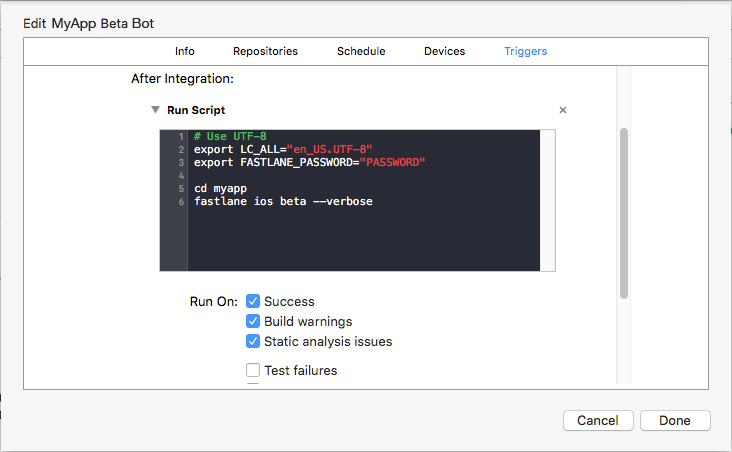
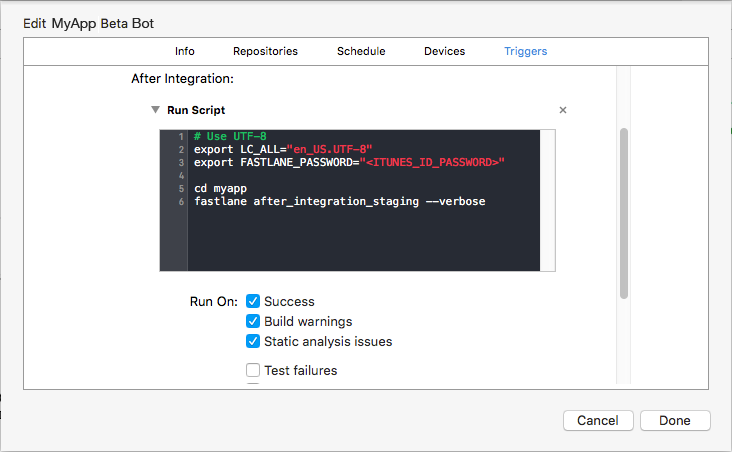
fixed images and something else

diff --git a/css/main.scss b/css/main.scss
@@ -4,7 +4,7 @@
 @charset "utf-8";
 
 
-$font-family: 'Lato';
+$font-family: 'Helvetica Neue';
 $font-weight-light: 300;
 $font-weight-normal: 400;
 $font-weight-bold: 700;
@@ -24,7 +24,7 @@ $line-height:      1.7;
 $background-color: #fdfdfd;
 $brand-color:      #2a7ae2;
 
-$grey-color:       #828282;
+$grey-color:       #777;
 $grey-color-light: lighten($grey-color, 40%);
 $grey-color-dark:  darken($grey-color, 25%);
 

diff --git a/_sass/_base.scss b/_sass/_base.scss
@@ -8,7 +8,9 @@ dl, dd, ol, ul, figure {
     padding: 0;
 }
 
-
+em {
+    font-style: italic;
+}
 
 /**
  * Basic styling
@@ -112,8 +114,6 @@ blockquote {
     border-left: 4px solid $grey-color-light;
     padding-left: $spacing-unit / 2;
     font-size: 18px;
-    letter-spacing: -1px;
-    font-style: italic;
 
     > :last-child {
         margin-bottom: 0;

diff --git a/_sass/_fonts.scss b/_sass/_fonts.scss
@@ -1,1 +1,2 @@
 @import url(http://fonts.googleapis.com/css?family=Lato:300,400,700,900,300italic,400italic);
+@import url(http://fonts.googleapis.com/css?family=Helvetica%20Neue:300,400,700,900,300italic,400italic);

diff --git a/_posts/2016-03-07-ci-with-xcode-server-and-fastlane.md b/_posts/2016-03-07-ci-with-xcode-server-and-fastlane.md
@@ -1,13 +1,13 @@
 ---
 layout: post
-title:  "CI & automatic deployment to iTunes with Xcode Server"
-date:   2016-02-19 17:22:12
+title:  "CI & automatic deployment to iTunes Connect with Xcode Server"
+date:   2016-03-07 10:00:00
 author: Miguel Revetria
-categories: Server,CI
+categories: Server,CI,Fastlane,Server
 author_id: remer
 ---
 
-In this post I'm going to write about my experience and the problems I found when setting up Xcode Server for CI and automatic deployment to iTunes at Xmartlabs. I'm going to let you know how I could solve some problems hoping it may help somebody in the same situation.
+In this post I'm going to write about my experience and the problems I found when setting up Xcode Server for CI and automatic deployment to iTunes Connect at Xmartlabs. I'm going to let you know how I could solve some problems hoping it may help somebody in the same situation.
 
 There are a lot of blogs that explain how to set up Xcode Server, create an integration bot and explore the results on Xcode (issue tracking, tests code coverage, etc) but when you try to make something more sophisticated, you may get some errors and won't be able to find many resources for a solution.
 
@@ -34,6 +34,7 @@ To prevent permissions issues we will install all the gems only for the builder 
 Before start, add ruby bin folder to builder's path - depending on the ruby's version - add `export PATH="$PATH:/var/_xcsbuildd/.gem/ruby/2.0.0/bin"` to `~/.bashrc` and `~/.bash_login`. Now let's install these gems:
 
 {% highlight shell %}
+
 $ sudo su - _xcsbuildd
 
 $ gem install --user-install cocoapods
@@ -75,7 +76,7 @@ We can create the bot by following these simple steps:
 
 ### Deployer bot
 
-Second bot we usually set up is on charge of building and uploading the app IPA to iTunes Connect. It will also be responsible for creating and pushing a new git tag using the most recently code base. We're going to use Fastlane to achieve this.
+Second bot is in charge of building and uploading the app IPA to iTunes Connect. It will also be responsible for creating and pushing a new git tag using the most recently code base. We're going to use Fastlane to achieve this.
 
 Normally we configure it to run on demand or weekly scheduled since we usually need to release beta versions once a week.
 
@@ -87,11 +88,11 @@ We have to ensure that distribution/development certificates and their associate
 
 ![Keychain](/images/remer-xcode-server/keychain.png)
 
-To build the IPA, we have to put required provisioning profiles in the folder `/Library/Developer/XcodeServer/ProvisioningProfiles` since bots run on its own user `_xcsbuildd` and search provisioning profiles in the folder .
+To build the IPA, we have to put required provisioning profiles in the folder `/Library/Developer/XcodeServer/ProvisioningProfiles` since bots run on its own user `_xcsbuildd` and search provisioning profiles in this folder.
 
 ### Before integration script
 
-XCode integration allows us to provide a before and a after integration script.
+Xcode integration allows us to provide a before and a after integration script.
 
 Before our Deployer Bot start integrating we have to preform some tasks which will be run from a triggered command:
 
@@ -100,7 +101,7 @@ Before our Deployer Bot start integrating we have to preform some tasks which wi
 * Install the correct versions of the libraries used by the project.
 
 
-Fastlane tools will look for useful information at `Appfile` file to deploy the lines such as **Apple ID** and **application Bundle Identifier**. Code snippet below illustrates how `Appfile` could looks like:
+Fastlane tools will look for useful information at `Appfile` file to deploy the lanes such as **Apple ID** and **application Bundle Identifier**. Code snippet below illustrates how `Appfile` could looks like:
 
 {% highlight ruby %}
 
@@ -131,7 +132,7 @@ lane :before_integration do
   build_number = number_of_commits
 
   # Set number of commits as the build number in the project's plist file before the bot actually start building the project.
-  # This way, the generated archive will have the correct build number.
+  # This way, the generated archive will have an auto-incremented build number.
   set_info_plist_value(
     path: './MyApp-Info.plist',
     key: 'CFBundleVersion',
@@ -152,8 +153,10 @@ end
 If we run `fastlane before_integration`, it will connect to iOS Member Center and download the profiles for the app indicated by its bundle id in the `Appfile`. Additionally we have to pass the password to it, to make this work with Xcode bots we pass it through the environment variable `FASTLANE_PASSWORD`:
 
 {% highlight shell %}
-$ export FASTLANE_PASSWORD="<APPLE_DEV_PORTAL_PASSWORD>"
+
+$ export FASTLANE_PASSWORD="<APPLE_ID_PASSWORD>"
 $ fastlane before_integration
+
 {% endhighlight %}
 
 > Initially we attempted to use Keychain to pass the passwords to Fastlane `sigh` but it doesn't work, for further info about this see [here](#attempting_to_developer_password_to_fastlane_tools).
@@ -166,11 +169,12 @@ We will modify the deployer bot by adding a before trigger command on the *Trigg
 
 ### After integration script
 
-After the bot finishes integrating the project we will be able to access the created archive file, export it as an IPA file and upload it to iTunes. We're going to create an additional lane which be in charge of uploading the IPA to iTunes and also creating a git tag.
+After the bot finishes integrating the project we will be able to access the created archive file, export it as an IPA file and upload it to iTunes Connect. We're going to create an additional lane which be in charge of uploading the IPA to iTunes Connect and also creating a git tag.
 
 Let's start simple without taking care of the upload to iTunes Connect for now:
 
 {% highlight ruby %}
+
 lane :after_integration do
   plistFile = './MyApp-Info.plist'
 
@@ -203,7 +207,7 @@ end
 
 {% endhighlight %}
 
-Now we're going to export the IPA from the archive created by the bot during the integration by running the command `xcrun xcodebuild` to the `build` lane. Additionally, we're going to upload the IPA to iTunes Connect using Fastlane [deliver](https://github.com/fastlane/deliver) tool. See details below:
+Now we're going to export the IPA from the archive file created by the bot during the integration by running the command `xcrun xcodebuild` in the `after_integration` lane. Additionally, we're going to upload the IPA to iTunes Connect using Fastlane [deliver](https://github.com/fastlane/deliver) tool. See details below:
 
 {% highlight ruby %}
 
@@ -225,7 +229,7 @@ lane :after_integration do
     ipa: ipa_path
   )
 
-  # Keep committing and tagging actions after export to avoid perform them
+  # Keep committing and tagging actions after export & upload to prevent confirm the changes to the repo if something went wrong
   add_git_tag(
     tag: "beta/v#{version_number}_#{build_number}"
   )
@@ -240,7 +244,7 @@ end
 
 #### Supporting multiples targets
 
-Typically our projects have a `production` and `staging` application targets. `Fastfile` file will require different lanes for each target that we want to upload to iTunes. We need to  modify the `Appfile` file to set up the correct app identifier depending on each lane:
+Typically our projects have a `production` and `staging` application targets. `Fastfile` file will require different lanes for each target that we want to upload to iTunes Connect. We need to  modify the `Appfile` file to set up the correct app identifier depending on each lane:
 
 {% highlight ruby %}
 
@@ -275,6 +279,7 @@ itunes_connect_id "<itunes_connect_email@server.com>"
 Finally, after some refactor, the `Fastfile` file may looks like as shown below:
 
 {% highlight ruby %}
+
 require './libs/utils.rb'
 
 fastlane_version '1.63.1'
@@ -283,7 +288,7 @@ default_platform :ios
 
 platform :ios do  
   before_all do
-    ENV["SLACK_URL"] = "https://hooks.slack.com/services/#####/#####/#########"
+    ENV["SLACK_URL"] ||= "https://hooks.slack.com/services/#####/#####/#########"
   end
 
   after_all do |lane|
@@ -305,12 +310,8 @@ platform :ios do
 
     plist_file = ENV['XL_TARGET_PLIST_FILE']
 
-    build_number = number_of_commits
-    set_info_plist_value(
-    path: plist_file,
-    key: 'CFBundleVersion',
-    value: "#{build_number}"
-  )
+    # This is a custom action that could be find in the libs/utils.rb
+    increase_build_number(plist_file)
 
     cocoapods
     sigh(output_path: '/Library/Developer/XcodeServer/ProvisioningProfiles', skip_install: true)
@@ -324,7 +325,7 @@ platform :ios do
 
   desc 'Required tasks before build the production app.'
   lane :before_integration_production do
-    ENV['XL_TARGET_PLIST_FILE'] = './MyAppStaging-Info.plist'
+    ENV['XL_TARGET_PLIST_FILE'] = './MyApp-Info.plist'
     before_integration
   end
 
@@ -338,7 +339,10 @@ platform :ios do
     tag_link = ENV['XL_TAG_LINK']
     target = ENV['XL_TARGET']
 
-    build_number = increase_build_number(plist_file)
+    build_number = get_info_plist_value(
+      path: plist_file,
+      key: 'CFBundleVersion',
+    )
     version_number = get_info_plist_value(
       path: plist_file,
       key: 'CFBundleShortVersionString',
@@ -394,9 +398,10 @@ platform :ios do
   lane :after_integration_staging do
     ENV['XL_BRANCH'] = current_branch
     ENV['XL_DELIVER_FLAG'] ||= '1'
+    ENV['XL_TAG_BASE_PATH'] = 'beta'
     ENV['XL_TARGET_PLIST_FILE'] = './MyApp Staging-Info.plist'
     ENV['XL_TARGET'] = 'MyApp Staging'
-    ENV['XL_TAG_LINK'] = 'https://bitbucket.org/xmartlabs/MyApp/src/?at='
+    ENV['XL_TAG_LINK'] = 'https://github.com/xmartlabs/MyApp/releases/tag/'
 
     after_integration
   end
@@ -407,7 +412,7 @@ platform :ios do
     ENV['XL_DELIVER_FLAG'] ||= '1'
     ENV['XL_TARGET_PLIST_FILE'] = './MyApp-Info.plist'
     ENV['XL_TARGET'] = 'MyApp'
-    ENV['XL_TAG_LINK'] = 'https://bitbucket.org/xmartlabs/MyApp/src/?at='
+    ENV['XL_TAG_LINK'] = 'https://github.com/company/MyApp/releases/tag/'
 
     after_integration
   end
@@ -417,12 +422,13 @@ end
 
 Notes about previous `Fastfile` file:
 
-* Defines two before_integration lanes for both production and staging environments in order to setup correct apps identifier using the `Appfile`.
-* Build, git and deploy actions are encapsulated in the `after_integration` lane. This allow as to have production and staging lanes that, basically, will setup some parameters and invoke the internal `after_integration` lane.
-* `ensure_git_status_clean` will check if bot's working folder has changes and will fail in such case. This will ensure that the bot’s working copy is exactly the same to the remote repository files. As we are changing local files on our `deploy` lane, if something went wrong we'll want to reset all of them. So we added the action `reset_git_repo` on `error` block.
-* The command `xcrun xcodebuild -exportArchive` requires a configuration file specified with the option `-exportOptionsPlist`. We created ExportOptions.plist within `fastlane` folder and its content its similar to:
+* Defines two `before_integration` lanes for both production and staging environments in order to setup correct apps identifier using the `Appfile`.
+* Build, git and deploy actions are encapsulated in the `after_integration` lane. This allow us to have production and staging lanes that, basically, will setup some parameters and invoke the internal `after_integration` lane.
+* `ensure_git_status_clean` will check if bot's working folder has changes and will fail in such case. This will ensure that the bot’s working copy is exactly the same to the remote repository files. As we are changing local files on our `after_integration` lane, if something went wrong we'll want to reset all of them. So we added the action `reset_git_repo` in the `error` block.
+* The command `xcrun xcodebuild -exportArchive` requires a configuration file specified with the option `-exportOptionsPlist`. We created the file `ExportOptions.plist` within `fastlane` folder and its content its similar to:
 
 {% highlight xml %}
+
 <?xml version="1.0" encoding="UTF-8"?>
 <!DOCTYPE plist PUBLIC "-//Apple//DTD PLIST 1.0//EN" "http://www.apple.com/DTDs/PropertyList-1.0.dtd">
 <plist version="1.0">
@@ -437,11 +443,14 @@ Notes about previous `Fastfile` file:
         <true/>
 </dict>
 </plist>
+
 {% endhighlight %}
 
 As the last step, add a new after integration trigger that executes our `after_integration_staging` lane:
 
 ![After trigger deploy](/images/remer-xcode-server/after-trigger-deploy.png)
+
+You can find a template for the Fastlane files shown before in this github repo [Fastlane CI files](https://github.com/xmartlabs/Fastlane-CI-Files)
 
 ## Troubleshooting
 
@@ -454,11 +463,13 @@ During our process of setting up Xcode Server to work properly, we faced many dr
 We tried by unlocking it before running `sigh` as shown below without luck:
 
 {% highlight shell %}
+
 # Try to unlock the keychain to be accessed by fastlane actions
 $ security -v unlock-keychain -p `cat /Library/Developer/XcodeServer/SharedSecrets/PortalKeychainSharedSecret` /Library/Developer/XcodeServer/Keychains/Portal.keychain
 
 # Will download profiles using sigh
 $ fastlane before_integration_staging
+
 {% endhighlight %}
 
 On the output log appears next messages:
@@ -480,12 +491,14 @@ We simply couldn't access the keychain when running Fastlane. We opted to just s
 We ended up deleting CocoaPods and installing it as a described above:
 
 {% highlight shell %}
+
 $ sudo rm -fr /var/_xcsbuildd/.cocoapods
 
 $ sudo su - _xcsbuildd
 $ gem install --user-install cocoapods
 $ pod setup
 $ ln -s `which pod` /Applications/Xcode.app/Contents/Developer/usr/bin/pod
+
 {% endhighlight %}
 
 #### Fastlane - Sigh & Gym cannot access to keychain
@@ -507,7 +520,9 @@ Ensure that:
 After updating Xcode to version 7.2.1 we were able to select it on Server app, then Xcode service was disabled. When we tried to select the correct Xcode app there a dialog saying *"You must agree to the terms of the xcode software license agreement"* was shown. We found the solution on an Apple Forum thread [Can not choose Xcode in Server App - "You must agree to the terms..."](https://forums.developer.apple.com/thread/34683), running next command will allow you to select Xcode on Server app:
 
 {% highlight shell %}
+
 $ sudo /Applications/Xcode.app/Contents/Developer/usr/bin/xcscontrol --initialize
+
 {% endhighlight %}
 
 #### IPA not available
@@ -522,15 +537,15 @@ The env variable XCS_ARCHIVE is defined only when the bot is set to perform the 
 
 To commit changelog changes and build number bump we need to have access to the repo from `_xcsbuildd`'s shell. If you prefer use SSH to access git server you will need to add a valid key in the builder user `.ssh` folder. Note that this key should not have a passphrase set. Otherwise, the trigger will ask you to enter the shh key password stopping its process until you enter it.
 
-1. Log in as `_xcsbuildd`:
+* Log in as `_xcsbuildd`:
    `$ sudo su - _xcsbuildd`
-2. Copy a valid ssh key to `~/.ssh`.
-3. Modify `~/.bash_login` in order to automatically add your custom key to ssh agent:
+* Copy a valid ssh key to `~/.ssh`.
+* Modify `~/.bash_login` in order to automatically add your custom key to ssh agent:
    {% highlight shell %}
    $ echo 'eval "$(ssh-agent -s)"' >> ~/.bash_login
    $ echo 'ssh-add ~/.ssh/id_rsa_github' >> ~/.bash_login
    {% endhighlight %}
-4. Determine which key should be used to access git repo by changing `~/.ssh/config` file, for example add next lines:
+* Determine which key should be used to access git repo by changing `~/.ssh/config` file, for example add next lines:
    {% highlight text %}
     Host github.com
        HostName github.com
@@ -541,8 +556,10 @@ This will also be helpful to fetch git submodules.
 
 #### Invalid Signature. A sealed resource is missing or invalid.
 
-If the upload to iTunes fails with an error similar to "Invalid Signature. A sealed resource is missing or invalid.", it may happen because the export archive command (xcodebuild command) is not receiving the option `-exportOptionsPlist`. Make sure that you have set up it and the path to the file is OK. The full error message is:
+If the upload to iTunes Connect fails with an error similar to "Invalid Signature. A sealed resource is missing or invalid.", it may happen because the export archive command (xcodebuild command) is not receiving the option `-exportOptionsPlist`. Make sure that you have set up it and the path to the file is OK. The full error message is:
 
 {% highlight text %}
+
 parameter ErrorMessage = ERROR ITMS-90035: "Invalid Signature. A sealed resource is missing or invalid. Make sure you have signed your application with a distribution certificate, not an ad hoc certificate or a development certificate. Verify that the code signing settings in Xcode are correct at the target level (which override any values at the project level). Additionally, make sure the bundle you are uploading was built using a Release target in Xcode, not a Simulator target. If you are certain your code signing settings are correct, choose "Clean All" in Xcode, delete the "build" directory in the Finder, and rebuild your release target. For more information, please consult https://developer.apple.com/library/ios/documentation/Security/Conceptual/CodeSigningGuide/Introduction/Introduction.html
+
 {% endhighlight %}
